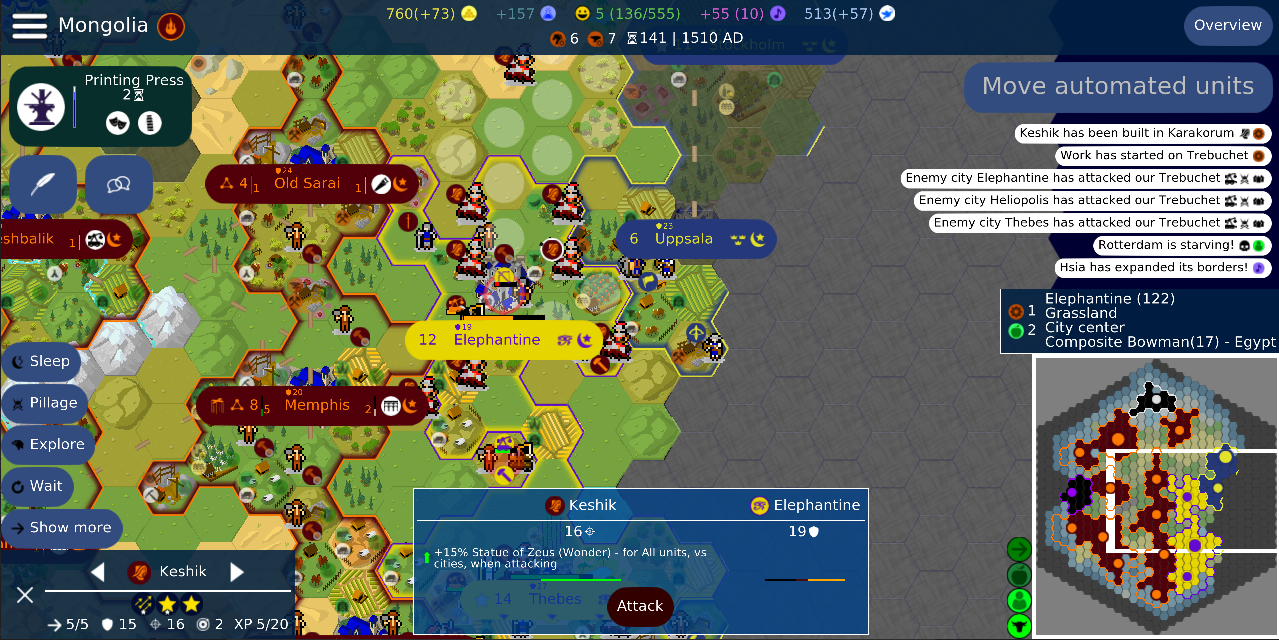
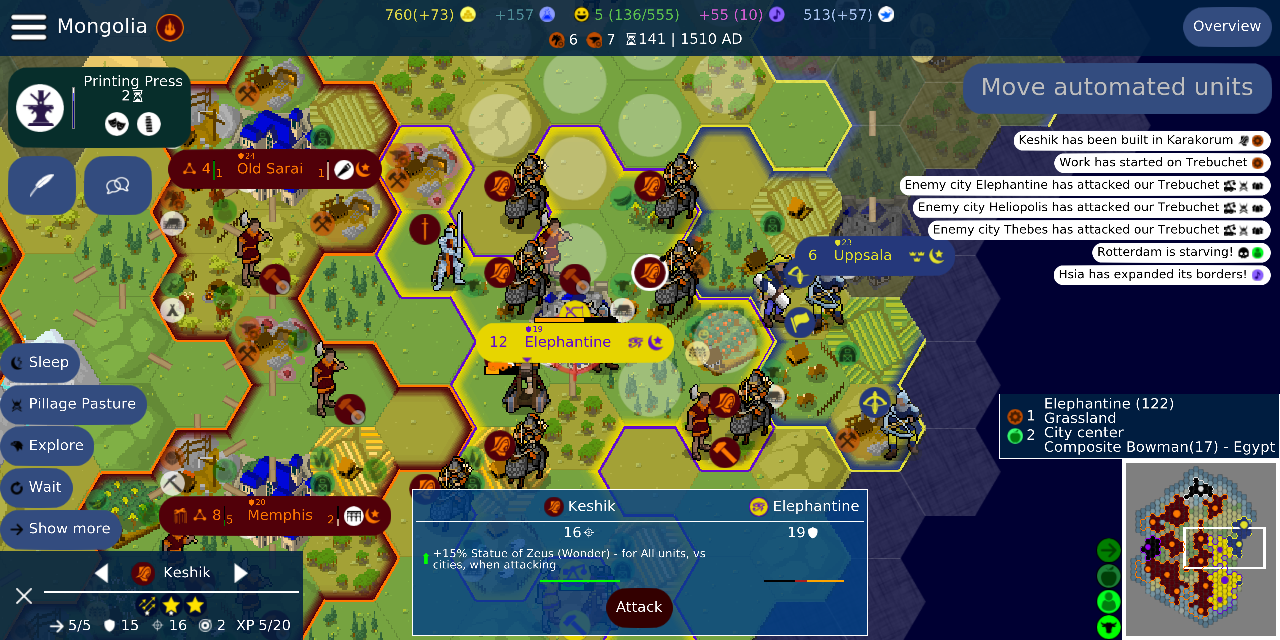
Made yields smaller so heavy yields looks better on tiles

diff --git a/core/src/com/unciv/ui/cityscreen/YieldGroup.kt b/core/src/com/unciv/ui/cityscreen/YieldGroup.kt
@@ -26,7 +26,7 @@ class YieldGroup : HorizontalGroup() {
     }
 
     fun getIcon(statName: String) =
-            ImageGetter.getStatIcon(statName).surroundWithCircle(20f)
+            ImageGetter.getStatIcon(statName).surroundWithCircle(15f)
                     .apply { circle.color = Color.BLACK;circle.color.a = 0.5f }
 
     private fun getStatIconsTable(statName: String, number: Int): Table {

diff --git a/docs/Modders/uniques.md b/docs/Modders/uniques.md
@@ -906,13 +906,13 @@ Simple unique parameters are explained by mouseover. Complex parameters are expl
 
 	Applicable to: Building
 
-??? example  "Requires a [buildingName] in all cities"
-	Example: "Requires a [Library] in all cities"
+??? example  "Requires a [buildingFilter] in all cities"
+	Example: "Requires a [Culture] in all cities"
 
 	Applicable to: Building
 
-??? example  "Requires a [buildingName] in at least [amount] cities"
-	Example: "Requires a [Library] in at least [3] cities"
+??? example  "Requires a [buildingFilter] in at least [amount] cities"
+	Example: "Requires a [Culture] in at least [3] cities"
 
 	Applicable to: Building
 
@@ -1731,8 +1731,8 @@ Simple unique parameters are explained by mouseover. Complex parameters are expl
 ??? example  "&lt;after founding a Pantheon&gt;"
 	Applicable to: Conditional
 
-??? example  "&lt;if [buildingName] is constructed&gt;"
-	Example: "&lt;if [Library] is constructed&gt;"
+??? example  "&lt;if [buildingFilter] is constructed&gt;"
+	Example: "&lt;if [Culture] is constructed&gt;"
 
 	Applicable to: Conditional
 
